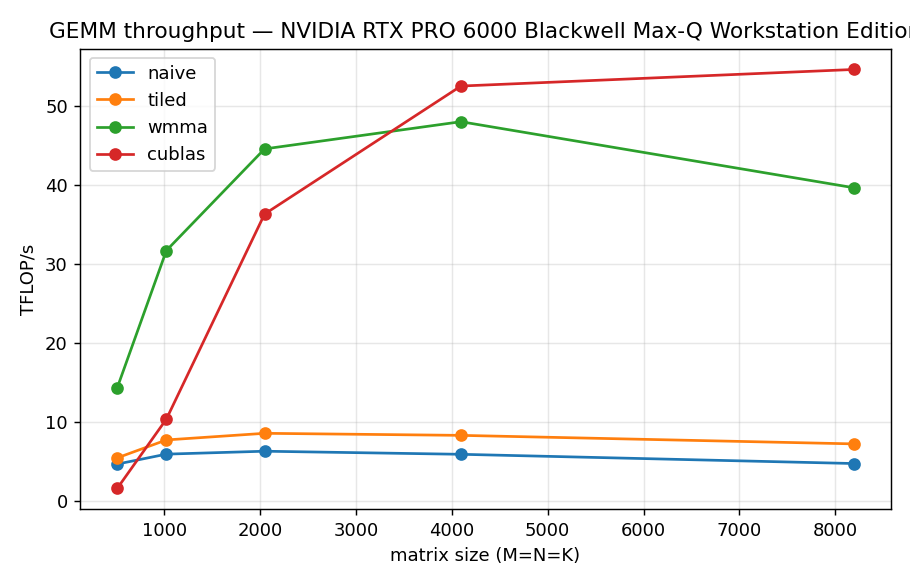
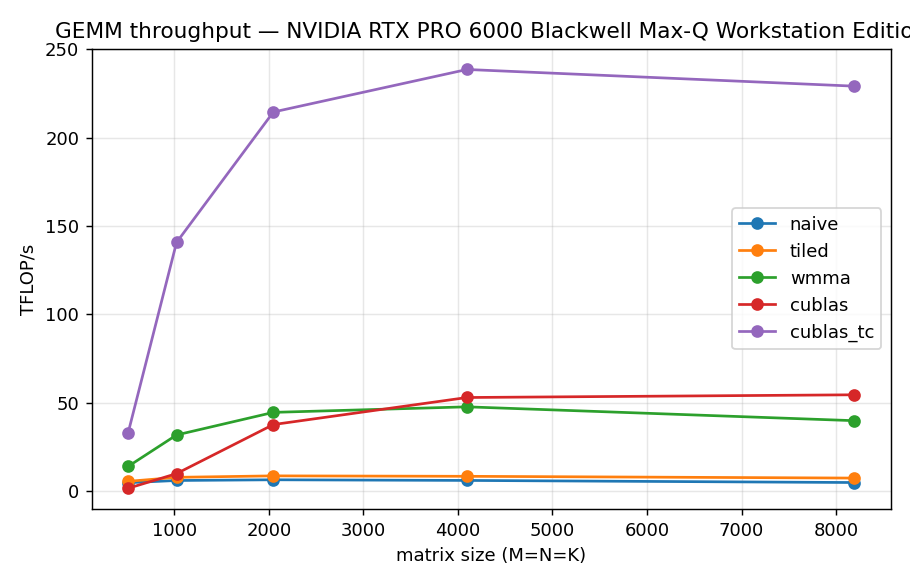
results: re-run sm_120 sweep with cublas_tc Tensor Core baseline
Same-precision cuBLAS-TC (cublasGemmEx FP16/FP32-acc) baseline; hoisted cuBLAS handle to static (per-call create/destroy was dominating small-N timing). wmma settles at ~17-22% of cuBLAS-TC at large sizes; cublas_tc 4.2-22x faster than FP32 cublasSgemm. bench_fp32only.csv kept for reference.

diff --git a/results/report.md b/results/report.md
@@ -6,27 +6,13 @@
 
 At M=N=K=8192:
 
-| kernel | TFLOP/s | % of FP32 cuBLAS | max abs err |
-|---|---|---|---|
-| naive | 4.7 | 8.6% | 0 |
-| tiled | 7.2 | 13.2% | 0 |
-| wmma | 39.7 | 72.6% † | 0.0112 |
-| cublas | 54.7 | 100.0% | 0 |
+| kernel | TFLOP/s | % of FP32 cuBLAS | % of cuBLAS-TC | max abs err |
+|---|---|---|---|---|
+| naive | 4.8 | 8.7% | 2.1% | 0 |
+| tiled | 7.3 | 13.4% | 3.2% | 0 |
+| wmma | 39.8 | 73.1% | 17.4% | 0.0112 |
+| cublas | 54.4 | 100.0% | 23.7% | 0 |
+| cublas_tc | 229.1 | 421.0% | 100.0% | 0.0112 |
 
-> **% of FP32 cuBLAS** is vs `cublasSgemm` (FP32, CUDA cores). **†** This is a
-> **precision-mismatched** comparison — the WMMA kernel uses FP16 Tensor Cores while
-> `cublasSgemm` uses FP32 CUDA cores — and is **not** the Tensor Core ceiling. Rows
-> above 100% (see `bench.csv`, e.g. 907.5% at size 512) reflect that FP16-TC vs
-> FP32-CUDA-core mismatch (plus small-size launch overhead), not a kernel beating cuBLAS.
->
-> A same-precision Tensor Core baseline, **`cublas_tc` (`cublasGemmEx`, FP16 in / FP32
-> accumulate, `src/cublas_tc.cu`)**, has been added to the harness. After a re-run,
-> `analysis/plot.py` regenerates this file with an additional **% of cuBLAS-TC** column —
-> the honest same-precision ceiling. **Those numbers are pending a re-run on the sm_120
-> box;** the WMMA `%` against `cublas_tc` is expected to be much lower than the FP32 figure
-> above, because `cublasGemmEx` also runs on Tensor Cores.
-
-> _Note: this file is auto-generated by `analysis/plot.py`. The table above is the last
-> captured FP32-baseline run and is preserved verbatim; re-running `make analyze` after a
-> fresh sweep will overwrite it with the new two-baseline format._
+> **% of FP32 cuBLAS** is vs `cublasSgemm` (FP32, CUDA cores) — precision-mismatched, **not** a Tensor Core ceiling; >100% reflects FP16-TC vs FP32-CUDA-core, not a kernel beating cuBLAS. **% of cuBLAS-TC** is vs `cublasGemmEx` (FP16 in / FP32 acc, Tensor Cores) — the honest same-precision ceiling. `n/a` if no `cublas_tc` row is present (re-run the sweep to populate it).
 